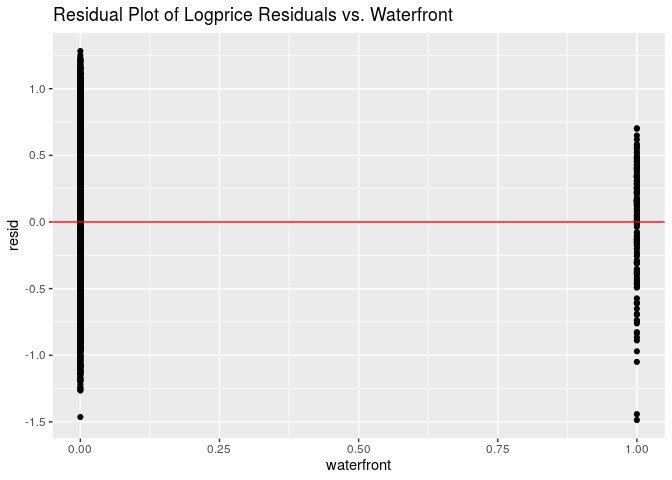
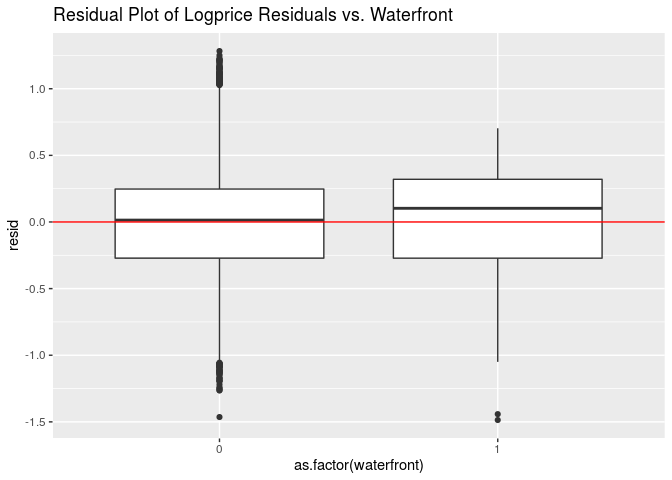
Finished hw 3!

diff --git a/hw-03-mlr.md b/hw-03-mlr.md
@@ -16,18 +16,20 @@ houses <- read_csv("data/KingCountyHouses.csv")
 
 ### Question 1
 
-For fast track conditions:
+Equation of model to estimate speed for fast track conditions:
 
 speed-hat = 52.387 + 0.020 \* year - 0.003 \* starters
 
 ### Question 2
 
-For slow track conditions:
+Equation of model to estimate speed for slow track conditions:
 
 speed-hat = 52.387 + 0.020 \* year - 0.003 \* starters - 1.070 \* 0 -
-2.1834 \* 1 + 0.012 \* (year x 0) + 0.012 \* (year x 1)
+2.183 \* conditionslow + 0.012 \* (year \* 0) + 0.012 \* (year \*
+conditionslow)
 
-\= 50.2036 + 0.032 \* year - 0.003 \* starters
+\= 52.387 + 0.020 \* year - 0.003 \* starters - 2.183 \* conditionslow +
+0.012 \* (year \* conditionslow)
 
 ### Question 3
 
@@ -38,21 +40,24 @@ for the winner to race against 0 horses.
 
 ### Question 4
 
-The p-value is 0.013. We use the p-value in the conditiongood variable
-row because that is the p-value we get from comparing good track
-conditions to the baseline condition of fast track. Since year = 0, we
-don’t have to worry about the interaction variables.
+The p-value testing differences in mean winning speed between fast and
+good track conditions in year 0 (with starters held constant) is 0.013.
+Since p\<0.05, there is a significant difference between mean winning
+speed on fast and good track conditions.
 
 ### Question 5
 
-All other variables held constant, the winner’s speed is predicted, on
+The coeffecient for conditionsslow (assuming year = 0) shows that for
+all other variables held constant, the winner’s speed is predicted, on
 average, to be 2.183 feet per second lower on a slow track than on a
 fast track.
 
 ### Question 6
 
-The p-value is 0.113. We use the p-value in the year:conditiongood
-interaction variable row.
+The p-value testing if slope of year is the same for fast and good track
+conditions (with starters and year held constant) is 0.113. Since
+p\>0.05, there is no significant difference between slope of year for
+fast and good track conditions.
 
 ### Question 7
 
@@ -137,8 +142,11 @@ ggplot(data = houses, mapping = aes(x = price)) + geom_histogram() + labs(title 
 ![](hw-03-mlr_files/figure-gfm/price-dist-1.png)<!-- -->
 
 The distribution of house prices is unimodal and strongly right skewed
-due to high outliers of houses that are extremely expensive. Thus, we
-visualize the distribution using the log transformed house
+due to high outliers of houses that are extremely expensive (up to
+around $6,0000,000). It is difficult to determine center and spread
+since the distribution is so strongly skewed and the wide range covers
+over 6,0000,0000. Thus, we visualize the distribution using the log
+transformed house
 prices.
 
 ``` r
@@ -147,11 +155,14 @@ ggplot(data = houses, mapping = aes(x = logprice)) + geom_histogram() + labs(tit
 
 ![](hw-03-mlr_files/figure-gfm/logprice-dist-1.png)<!-- -->
 
-The distribution of logprice is unimodal and relatively normal. We use
-the log-transformed version of price because it gives us a more normal
-distribution that is more spread out and easier to analyze, as opposed
-to the clustered and extremely right skewed distribution of price, due
-to the high outliers from very expensive houses.
+The distribution of logprice is unimodal and relatively normal and
+symmetric, centered around 13 with a range of about 3. We use the
+log-transformed version of price because it gives us a more normal
+distribution that is easier to analyze, as opposed to the extremely
+right skewed distribution of price, due to the high outliers from very
+expensive houses. The distribution of logprice better represents the
+data in terms of center, shape, and spread, thus making it more
+appropriate to use for our model.
 
 Created scatterplots to visualize the relationship between logprice and
 predictor
@@ -163,42 +174,9 @@ pairs(logprice ~ floorsCat + sqftCent + bedroomsCent + bathroomsCent + waterfron
 
 ![](hw-03-mlr_files/figure-gfm/pairs-logprice-1.png)<!-- -->
 
-#### Discussion
-
-Relationship between House Price and Square Footage:
-
-For every 1 square foot increase in a house’s interior square footage,
-we expect the median price to be multiplied by a factor of $1.0004. We
-are 95% confident that for a 1 square foot increase in a house’s
-interior square footage, we can expect the median price to be multiplied
-by a factor of 1.00039 to 1.00041.
-
-Relationship between House Price and Number of Floors:
-
-A house with 1.5 floors is expected to have a median price 1.202 times
-the price of a 1-floor house. A house with 2 floors is expected to have
-a median price 0.998 times the price of a 1-floor house. A house with
-2.5 floors is expected to have a median price 1.229 times the price of a
-1-floor house. A house with 3 floors is expected to have a median price
-1.238 times the price of a 1-floor house. A house with 3.5 floors is
-expected to have a median price 1.314 times the price of a 1-floor
-house.
-
-The null hypothesis states that there is no statistically significant
-difference in house price between houses with 1 floor and 1.5, 2, 2.5,
-3, and 3.5 floors. The alternative hypothesis states that there is a
-statistically significant difference in house prices between houses with
-different number of floors.
-
-The differences in house price are statistically significant for all
-floors except between houses with 1 floor and 2 floors. This is because
-the p-value for 2 floor houses is 0.765, which is greater than the alpha
-level of 0.05, thus we fail to reject the null hypothesis, showing there
-is no statisically significant difference in house price betwen houses
-with 1 and 2
-floors.
-
 #### Assumptions
+
+##### Linearity
 
 ``` r
 ggplot(data = houses, mapping = aes(x = floorsCat, y = logprice)) + geom_point() + labs(title = "Relationship between Logprice and Number of Floors")
@@ -230,6 +208,14 @@ ggplot(data = houses, mapping = aes(x = waterfront, y = logprice)) + geom_point(
 
 ![](hw-03-mlr_files/figure-gfm/linearity-plots-5.png)<!-- -->
 
+Linearity is satisfied for all predictor variables except number of
+floors because the scatterplots for the other variables show relatively
+positive correlations with logprice that follow a linear relationship,
+but the scatterplot between logprice and floorsCat does not follow a
+linear relationship.
+
+##### Normality
+
 ``` r
 houses <- houses %>%
   mutate(predicted = predict.lm(logprice_model), resid = residuals(logprice_model))
@@ -240,6 +226,22 @@ ggplot(data = houses, mapping = aes(x = resid)) + geom_histogram() + labs(title 
 ```
 
 ![](hw-03-mlr_files/figure-gfm/resid-hist-1.png)<!-- -->
+
+``` r
+ggplot(data = houses, mapping = aes(sample = resid)) + 
+  stat_qq() + 
+  stat_qq_line() +
+  labs(title = "Normal QQ Plot of Residuals")
+```
+
+![](hw-03-mlr_files/figure-gfm/qqplot-1.png)<!-- -->
+
+Normality is satisfied because the distribution of residuals for the
+logprice model is normal and the normal qq plot of residuals follows the
+line of best
+fit.
+
+##### Constant Variance
 
 ``` r
 ggplot(data = houses, mapping = aes(x = predicted, y = resid)) + geom_point() + geom_hline(yintercept = 0, color ="red") + labs(title = "Residual Plot of Logprice Residuals vs. Predicted Logprice")
@@ -272,42 +274,76 @@ ggplot(data = houses, mapping = aes(x = bathroomsCent, y = resid)) + geom_point(
 ![](hw-03-mlr_files/figure-gfm/resid-plot-5.png)<!-- -->
 
 ``` r
-ggplot(data = houses, mapping = aes(x = waterfront, y = resid)) + geom_point() + geom_hline(yintercept = 0, color ="red") + labs(title = "Residual Plot of Logprice Residuals vs. Waterfront")
+ggplot(data = houses, mapping = aes(x = as.factor(waterfront), y = resid)) + geom_boxplot() + geom_hline(yintercept = 0, color ="red") + labs(title = "Residual Plot of Logprice Residuals vs. Waterfront")
 ```
 
 ![](hw-03-mlr_files/figure-gfm/resid-plot-6.png)<!-- -->
-
-``` r
-ggplot(data = houses, mapping = aes(sample = resid)) + 
-  stat_qq() + 
-  stat_qq_line() +
-  labs(title = "Normal QQ Plot of Residuals")
-```
-
-![](hw-03-mlr_files/figure-gfm/qqplot-1.png)<!-- -->
-
-Linearity is satisfied for all predictor variables except number of
-floors because the scatterplots for the other variables show relatively
-positive correlations with logprice that follow a linear relationship,
-but the scatterplot between logprice and number of floors does not show
-a linear relationship.
-
-Normality is satisfied because the distribution of residuals for the
-logprice model is normal and the normal qq plot of residuals follows the
-line of best fit.
 
 Constant Variance is not satsified for any of the predictor variables
 because the the variation in residuals are not constant across any of
 the predictor variables.
 
+##### Independence
+
 Independence is not satisfied because a house’s price is not completely
 indpendent of other houses’ prices. For example, if the economy is not
 doing well, house prices might decrease in general, or houses might be
-priced lower to compete in the market. Also, houses in the same
-neighborhood might all be priced
-similarly.
+priced lower relative to other houses to compete in the market. Also,
+houses in the same neighborhood might all be priced similarly because
+they are built the same way and attract the same demographics.
+
+#### Inference and Prediction
+
+##### Relationship between House Price and Square Footage:
+
+For every 1 square foot increase in a house’s interior square footage,
+we expect the median price to be multiplied by a factor of $1.0004. We
+are 95% confident that for a 1 square foot increase in a house’s
+interior square footage, we can expect the median price to be multiplied
+by a factor of 1.00039 to 1.00041.
+
+##### Relationship between House Price and Number of Floors:
+
+A house with 1.5 floors is expected to have a median price 1.202 times
+the price of a 1-floor house. A house with 2 floors is expected to have
+a median price 0.998 times the price of a 1-floor house. A house with
+2.5 floors is expected to have a median price 1.229 times the price of a
+1-floor house. A house with 3 floors is expected to have a median price
+1.238 times the price of a 1-floor house. A house with 3.5 floors is
+expected to have a median price 1.314 times the price of a 1-floor
+house.
+
+The null hypothesis states that there is no statistically significant
+difference in house price between houses with 1 floor and 1.5, 2, 2.5,
+3, and 3.5 floors. The alternative hypothesis states that there is a
+statistically significant difference in house prices between houses with
+different number of floors.
+
+H0: μ1=μ1.5=μ2=μ2.5=μ3=μ3.5
+
+Ha: At least one μ is not equal to the others
+
+The differences in house price are statistically significant for all
+floors except between houses with 1 floor and 2 floors. This is because
+the p-value for 2 floor houses is 0.765, which is greater than the alpha
+level of 0.05, thus we fail to reject the null hypothesis, showing there
+is no statisically significant difference in house price betwen houses
+with 1 and 2
+floors.
 
 #### Interaction
+
+``` r
+ggplot(data = houses, mapping = aes(x = bedroomsCent, y = logprice, color = waterfront)) + geom_point()
+```
+
+![](hw-03-mlr_files/figure-gfm/plot-interaction-1.png)<!-- -->
+
+According to the scatterplot, for a given number of bedrooms, it seems
+that houses with a waterfront tend to have higher prices than houses
+without a waterfront. However, we need to see if this interaction
+difference is actually
+significant.
 
 ``` r
 logprice_model <- lm(logprice ~ floorsCat + sqftCent + bedroomsCent + bathroomsCent + waterfront + waterfront * bedroomsCent, data = houses)
@@ -328,8 +364,9 @@ kable(tidy(logprice_model, conf.int = TRUE, level = 0.95),digits=5)
 | waterfront              |   0.56878 |   0.02948 |   19.29264 | 0.00000 |   0.51099 |   0.62656 |
 | bedroomsCent:waterfront |   0.02033 |   0.02918 |    0.69677 | 0.48595 | \-0.03686 |   0.07752 |
 
-The interaction between `waterfront` and `bedroomsCent` is not
-significant because the p-value is 0.486, which is higher than the alpha
-level of 0.05.
+The model with the bedroomsCent:waterfront interaction variable included
+gives a p-value of 0.486 for the bedroomsCent:waterfont variable.
+Because the p-value is greater than the alpha level of 0.05, the
+interaction between `waterfront` and `bedroomsCent` is not significant.
 
 ### Overall (do not delete\!)
